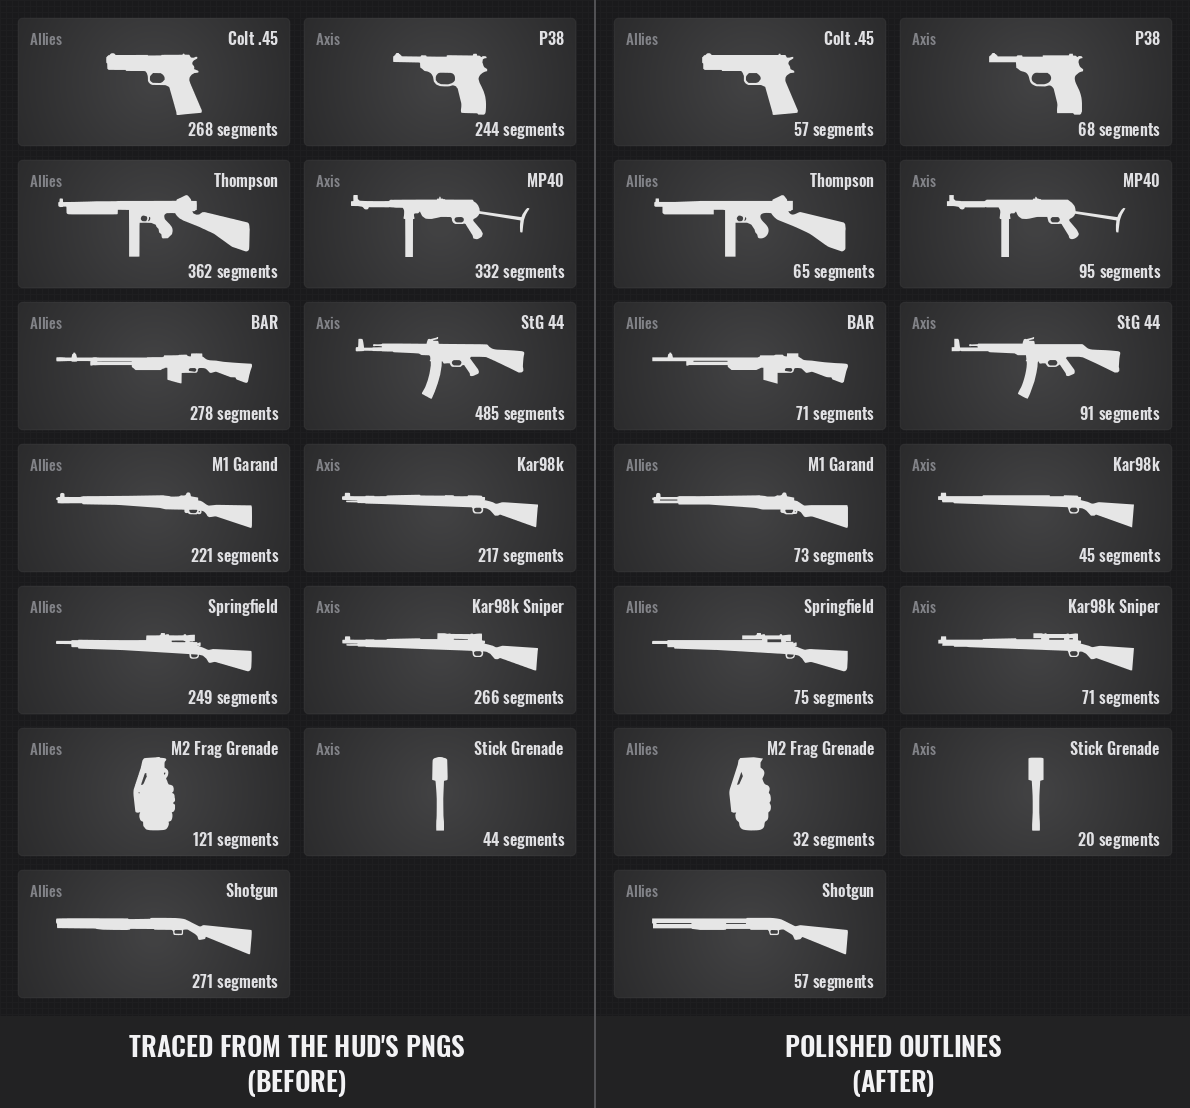
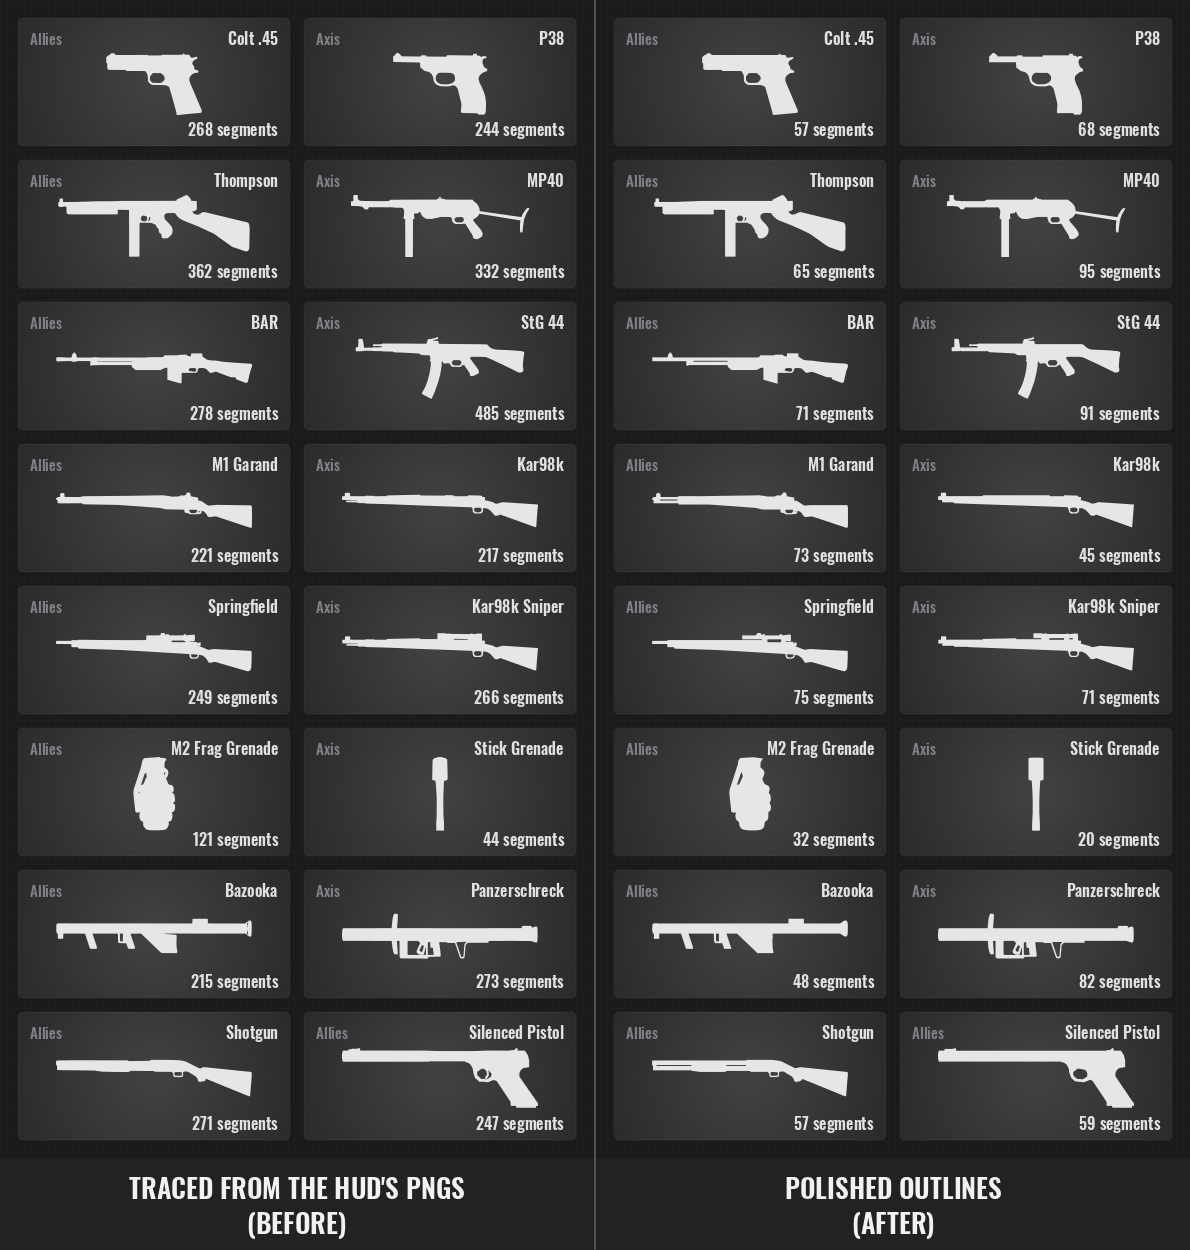
Add polished outlines of the silenced pistol, launchers, G43 and others
The silenced pistol, the bazooka and the Panzerschreck, which completes
Allied Assault's own weapons, and from the expansions the Gewehr 43, the
Kar98k with its grenade launcher, the binoculars and both smoke
grenades, drawn from the game's own models. Round openings are smooth;
the silenced pistol's trigger guard is one opening without the trigger;
the hairlines at the bazooka's shoulder rest and muzzle and in the smoke
grenade's ring are closed. The README's cards gain the launchers and the
silenced pistol.

diff --git a/README.md b/README.md
@@ -45,9 +45,9 @@ Like the originals they are white, the colour the HUD tints, so they don't show 
 
 The polished outlines are drawn again from the same PNGs, as clean vectors: edges that are straight on the weapon are exactly straight, corners are crisp, and curved parts such as grips, trigger guards and stocks are smooth, with none of the pixel steps left. Edges that are nearly straight are evened out too: small steps and dips of up to 2 pixels along an edge, which only blur at HUD size, are taken out, and edges within 1.5° of level or upright are made exactly so; small raised parts such as sights and scope rings stay. Which parts are curved is judged from renders and pictures of the weapon; the Thompson's grip and stock follow a picture of a real M1A1. Each still lines up with its PNG to within about a pixel, in a fifth to a third of the trace's segments, and is the same kind of file: one white path, the viewBox the PNG's size, holes running against the shapes around them. On the two scoped rifles, the Kar98k sniper and the Springfield, the gap between the scope and the rifle is opened again: the game's models have it, but the PNGs' 1-pixel border closed it. It is a little wider than on the models, so the scope still stands clear at HUD size. The shotgun gets the gap between its barrel and magazine tube, in front of and behind the pump, that the real trench gun has and the game's model leaves solid, and the BAR's and the M1 Garand's barrels are parted from their gas cylinders the same way. Gaps too thin to show at HUD size are closed instead, such as the slit under the Kar98k's barrel: at HUD size they only add noise. The stick grenade's head follows the real Model 24, with a flat top, straight sides and a gentler step down to the handle than the game's model has, and the grenade is drawn exactly symmetric.
 
-Polished are *Allied Assault*'s own weapons: the Kar98k and its sniper version, the Thompson, the Colt .45, the P38, the MP40, the StG 44, the BAR, the M1 Garand, the Springfield, the shotgun and both grenades. The silenced pistol, the bazooka, the Panzerschreck, the expansions' weapons and the kill feed icons stay as traced. Traced against polished, laid out like a buy menu: each card gives the team, the name and the outline's segment count, the Allied weapons beside their German counterparts, the shotgun on its own:
+Polished are all of *Allied Assault*'s own weapons: the Kar98k and its sniper version, the Thompson, the Colt .45, the P38, the MP40, the StG 44, the BAR, the M1 Garand, the Springfield, the shotgun, the silenced pistol, the bazooka, the Panzerschreck and both grenades. From the expansions so far: the Gewehr 43, the Kar98k with its grenade launcher, the binoculars and both smoke grenades, drawn from the game's own models. The silenced pistol's trigger guard is one round opening without the trigger, as on the Colt. The rest of the expansions' weapons and the kill feed icons stay as traced for now. Traced against polished, laid out like a buy menu: each card gives the team, the name and the outline's segment count, the Allied weapons beside their German counterparts, the shotgun and the silenced pistol together:
 
-<img src="weapons/preview-polished.png" alt="Buy-menu cards on dark grey, the traced outlines on the left and the polished ones on the right: Colt .45 and P38, Thompson and MP40, BAR and StG 44, M1 Garand and Kar98k, Springfield and Kar98k sniper, the M2 frag grenade and the stick grenade, and the shotgun, each card with its team, name and segment count">
+<img src="weapons/preview-polished.png" alt="Buy-menu cards on dark grey, the traced outlines on the left and the polished ones on the right: Colt .45 and P38, Thompson and MP40, BAR and StG 44, M1 Garand and Kar98k, Springfield and Kar98k sniper, the M2 frag grenade and the stick grenade, bazooka and Panzerschreck, and the shotgun and the silenced pistol, each card with its team, name and segment count">
 
 ## Logo
 
